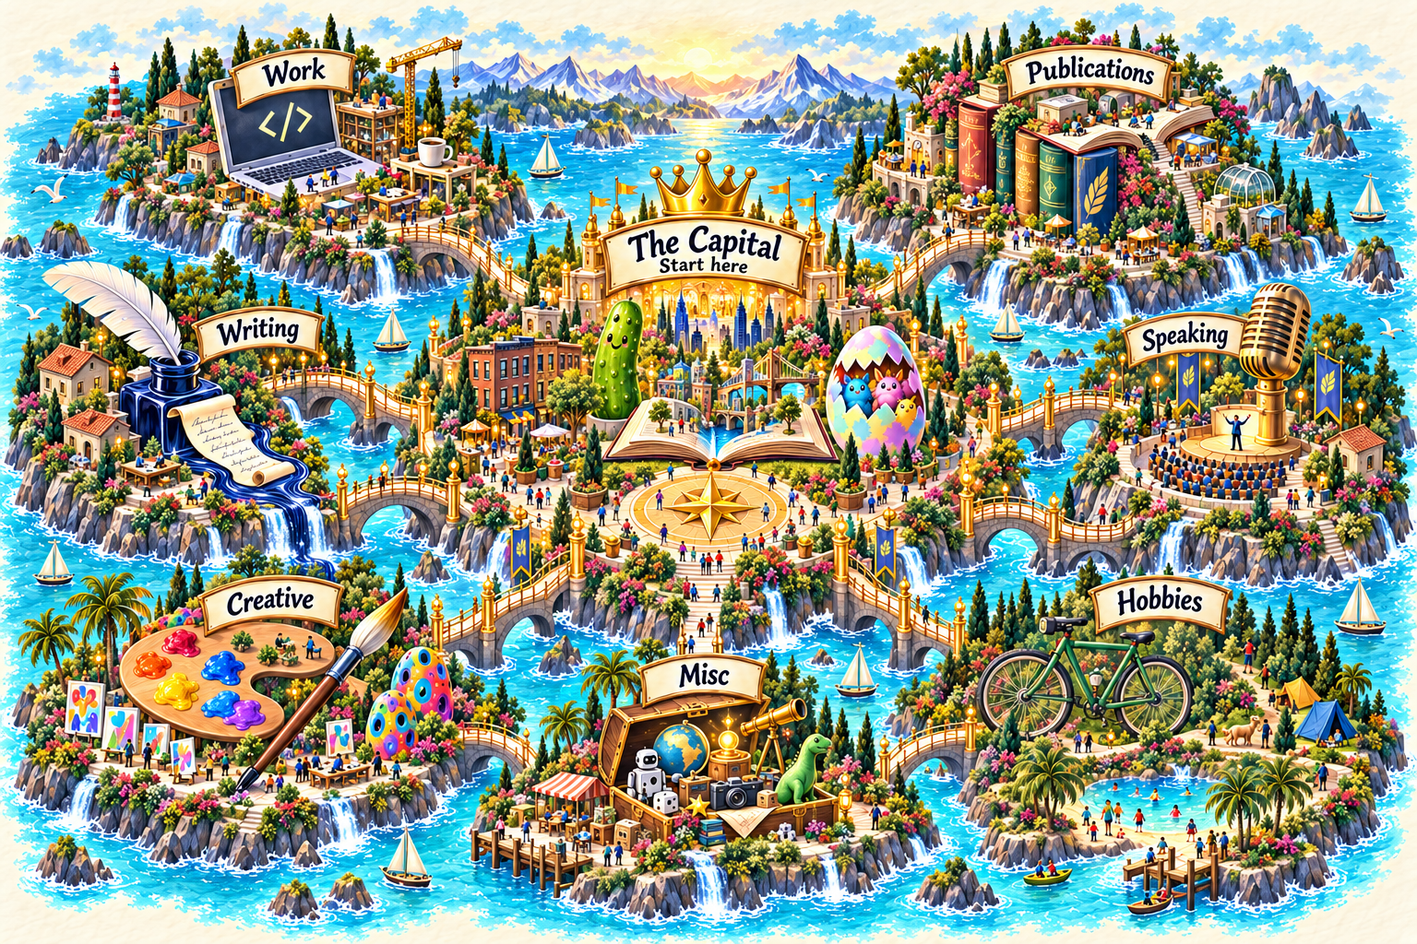
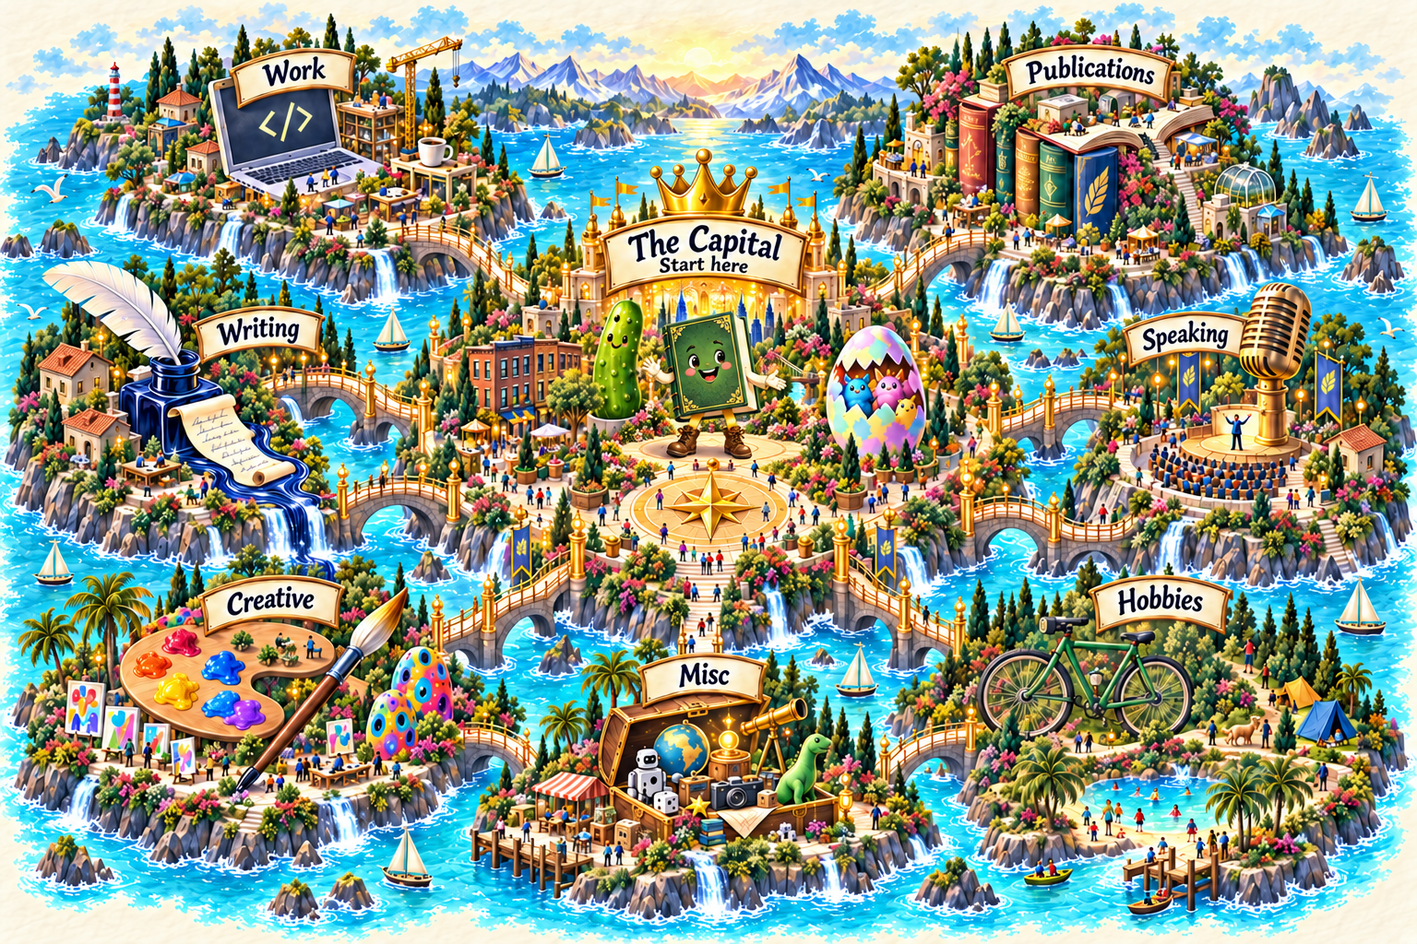
Bring book and Dota landmarks to life as characters

diff --git a/land/src/ProjectStory.jsx b/land/src/ProjectStory.jsx
@@ -70,7 +70,7 @@ export function ProjectStory({
           <img
             src={project.artwork}
             alt={
-              project.featured
+              project.featured || project.id === "dota-consciousness"
                 ? project.motif
                 : `The illustrated ${maps[project.kingdom].title} kingdom`
             }

diff --git a/land/src/ProjectStory.stories.jsx b/land/src/ProjectStory.stories.jsx
@@ -25,6 +25,10 @@ export const Interest = {
   args: { project: projectById.acroyoga, from: "hobbies" },
 };
 
+export const DotaMage = {
+  args: { project: projectById["dota-consciousness"], from: "writing" },
+};
+
 export const BookSecondChapter = {
   args: FrontendBook.args,
   play: async ({ canvasElement }) => {

diff --git a/land/docs/character-artwork-prompts.md b/land/docs/character-artwork-prompts.md
@@ -1,0 +1,71 @@
+# Character landmark artwork — 2026-10-03
+
+Built-in ImageGen precise object edits. Existing artwork was the edit target; the new book hero served as the identity reference for its map appearances. PNG source files are retained outside the production bundle, with WebP derivatives at quality 85.
+
+
+Tool: built-in image_gen edit
+Generated source: /Users/toli/.codex/generated_images/01a0fab3-b833-78f3-a58b-1de1c14f8a40/exec-081211bc-5c13-4f67-bc29-6e936d76159c.png
+Final source: /Users/toli/Documents/GitHub/toli-land/land/docs/artwork-source/projects/frontend-infra-book.png
+Final webp: /Users/toli/Documents/GitHub/toli-land/land/public/assets/projects/frontend-infra-book.webp
+
+Exact prompt:
+Use case: precise-object-edit. Edit the provided 1536x1024 landscape hero illustration. Image 1 is the EDIT TARGET. Keep the exquisite sunny gouache storybook painting style, lush Mediterranean island garden, sparkling turquoise sea, distant blue mountains, sailboats, golden afternoon light, and warm stone paths. Replace the entire enormous architectural open-book city in the center with ONE prominent anthropomorphic storybook character. Remove the towers, construction cranes, buildings, and city growing from the original book. The book itself is now a charming adventurous storyteller, absolutely recognizable at a small thumbnail size.
+Character identity: a sturdy upright sage-green closed or very slightly partly-open hardcover storybook BODY, angled a little in three-quarter view so its cream page edges show on one side. Refined gold embossed corner details and a fine gold border on the green cover, with no lettering. A prominent friendly FACE is on the FRONT COVER: two bright expressive dark eyes, little curved brows, warm rosy cheeks, and a joyful welcoming smile. Exactly TWO flexible cream paper arms with little paper hands emerge from the sides; one waves hello and the other extends in a storytelling gesture. Exactly TWO bookmark-ribbon legs emerge underneath the book, each ending in a warm brown walking boot. Little cream and gold page details emphasize that this is a living book. The green book cover remains the main silhouette; do not give it a human torso, human head, animal body, or generic robot body.
+Composition: the full character, both arms, both legs and boots visible, centered in the frame, occupying about 65-70 percent of the canvas height. Keep the character and limbs within the central 80 percent for phone crops. Stand it on a garden stone terrace amid delicate flowers, with the original sunny bay and island atmosphere behind. Its pose is friendly, lively, and adventurous. Rich painterly texture and crafted details consistent with the original illustration, not plastic CGI. Some small study-table or book details may remain at the margin, but the single green book character must be unquestionably the hero. No architectural city attached to the character.
+Invariants: preserve the original landscape aspect ratio at exactly 1536x1024, sunny rich gouache style, turquoise-water palette, luxuriant foliage, inviting mood. NO text, letters, words, labels, signs, app UI, page copy, buttons, cards, frames, logos, or watermarks. This is only an illustrative project hero asset.
+
+
+World map substitution
+Tool: built-in image_gen precise-object edit
+Generated source: /Users/toli/.codex/generated_images/01a0fab3-b833-78f3-a58b-1de1c14f8a40/exec-93906fbc-211e-4b28-9c6d-1397b7b833cf.png
+Final source: /Users/toli/Documents/GitHub/toli-land/land/docs/artwork-source/maps/world.png
+Final webp: /Users/toli/Documents/GitHub/toli-land/land/public/assets/maps/world.webp
+Exact prompt:
+Use case: precise-object-edit. Image 1 is the EDIT TARGET: the existing full Toli Land world map, 1536x1024. Image 2 is a CHARACTER IDENTITY REFERENCE ONLY: the new walking green storybook. Make ONE small localized substitution in Image 1. Replace ONLY the Capital's little open book with a city growing out of its pages, located in the center around x50%, y45%, BETWEEN the smiling green pickle on its left and the pastel Easter egg on its right, BELOW the sign reading 'The Capital / Start here'. Replace that open-book landmark with a MINIATURE version of the exact character from Image 2: upright sage/forest-green hardcover storybook body, cream page edges, refined gold corner embossing and gold border, friendly face on its front cover with bright dark eyes, rosy cheeks and joyful smile, two cream paper arms with paper hands, two gold bookmark-ribbon legs ending in brown lace-up boots. Both hands and both boots must be visible. The miniature character stands happily in that same central landmark location, facing the viewer at a slight three-quarter angle.
+LOCAL EDIT BOUNDARY: keep the complete miniature character within approximately x43–59% and y34–51% of the canvas; make it small enough to fit cleanly between the pickle and egg without covering either. Do not overlap or alter the Capital sign above or gold compass plaza below. Only remove the little open city-book object being replaced; reconstruct the tiny area immediately behind it as needed. Do not replace the whole capital or repaint other areas.
+STRICT INVARIANTS: preserve the entire rest of Image 1, all island outlines, water, sunlight, gouache texture, bridges, paths, foliage, crowds, camera, composition, proportions, and exact 1536x1024 landscape dimensions. Keep the Capital crown, Capital sign and 'Start here' text, smiling pickle, Easter egg and its creatures, nearby city architecture, and compass plaza intact. Preserve ALL SEVEN kingdoms and ALL their exact existing signs and landmarks: Work laptop; Publications giant books and architecture; Writing feather and ink; Speaking microphone; Creative paint palette; Hobbies bicycle; Misc treasure chest. IMPORTANT: the Publications kingdom at the TOP RIGHT must remain its existing generic giant-book architecture, NOT be replaced with the character, because that landmark represents the whole category. ONLY the small center Capital book is replaced. Preserve every existing word exactly: Work, Publications, Writing, Speaking, Creative, Hobbies, Misc, The Capital, Start here. Add no new labels, text, UI, captions, signs, or words. Match the scale, shadows and warm sunny storybook painting style so the new little character belongs to this world.
+
+
+Toli Land — Writing map Dota landmark edit
+
+Mode: built-in imagegen, precise-object-edit.
+Generated output: /Users/toli/.codex/generated_images/01a0faa1-7d3a-7493-be29-672c3f6ebd36/exec-033973b2-a6b2-4ba3-b67f-06e35fcc6fce.png
+Canonical source: /Users/toli/Documents/GitHub/toli-land/land/docs/artwork-source/maps/writing.png
+Serving derivative: /Users/toli/Documents/GitHub/toli-land/land/public/assets/maps/writing.webp
+Derivative command: cwebp -q 85 -m 6 docs/artwork-source/maps/writing.png -o public/assets/maps/writing.webp
+Original before edit preserved for QA: /tmp/toli-writing-before-invoker.png
+Official character page: https://www.dota2.com/hero/invoker
+Official reference image discovered from that page's og:image: https://cdn.steamstatic.com/apps/dota2/images/dota_react/heroes/social/invoker.jpg
+Local character reference: /tmp/toli-invoker-official-reference.jpg
+Dimensions: 1536x1024.
+Visual inspection: Invoker replaces the chessboard on the lower-right island, with pale hair, a tall purple/gold collar and robes, and three colored floating orbs. Existing six landmark labels and Story Grove entrance label remain legible. Other landmark positions, paths and overall composition remain visually consistent.
+No app source modifications, commits or deployment performed.
+
+EXACT PROMPT
+
+Use case: precise-object-edit.
+Asset type: exact localized edit of the supplied 1536x1024 Writing kingdom map.
+Input image 1 is the EDIT TARGET and must remain the same map.
+Input image 2 is an official Dota 2 Invoker CHARACTER LIKENESS REFERENCE ONLY. Do not copy its background, logo, typography, rendering style, or pose rigidly.
+
+CHANGE ONLY the LOWER-RIGHT DOTA LANDMARK: replace the cosmic chessboard and its chess pieces on the little island beneath the existing "DOTA & Consciousness" sign with a GIANT recognizable friendly storybook INVOKER from Dota 2. The editable area is centered about x83%, y68% of the canvas, maximum width29%, height33%; keep the same existing island, its connecting bridges, foreground cliff, plantings, surrounding water, and exact placement. Fit the new character beneath/behind the existing sign so the sign stays readable in its original position.
+
+Invoker must be an ACTUAL CHARACTER standing on that island, not character-shaped architecture and not a castle. Big clear full-body or nearly full-body silhouette, larger than surrounding tiny visitors, recognizable pale swept-back light hair, distinctive very tall purple/magenta-and-gold flared collar, purple robes with ivory-and-gold ornate shoulder armor and trim. Use the reference for his distinctive collar and costume silhouette. Make his expression friendly, curious and slightly proud, with a welcoming magical gesture. THREE floating spell orbs, one icy blue, one violet, one warm orange/gold, hover around his upper body/hands with small elegant luminous magic swirls. Adapt him completely to the existing sunny detailed gouache picturebook illustration; he belongs naturally in this cheerful coastal fantasy world. The old chessboard and chess pieces should be gone.
+
+STRICT INVARIANTS: preserve the whole rest of image 1 unchanged: exact camera, 1536x1024 dimensions, crop, all other five landmarks, all typography, all signs and their positions, book garden, quill, treehouses, kaleidoscope, repaired heart, hourglass, Story Grove entrance, bridges, water, mountains, boats, people, vegetation, colors, sunlight, composition and detail. Do not redraw, redesign, move, crop or add anything outside the lower-right Dota object replacement. Preserve the existing "DOTA & Consciousness" sign EXACTLY with that capitalization, ampersand and lettering. Preserve every other word EXACTLY. No new text or logos. No UI. No other changes.
+
+
+
+Built-in imagegen used. One call per map; map image as edit target and common character image as identity reference.
+
+Inspected outputs: both show the same upright green book character with gold corners, cream page arms, friendly face, golden ribbon legs and two brown boots. All signs and other destinations remain in place. Capital character body centered approximately (72%, 26%), full silhouette x64%-80%, y16%-38%; existing hotspot (73%,26%,34%,37%) still contains it. Publications character body centered approximately (50%,23%), full silhouette x42%-58%, y13%-34%; existing hotspot (50%,27%,39%,41%) still contains it. Publications character is slightly above nominal target center but does not require click-bound changes.
+
+Capital generated source: /Users/toli/.codex/generated_images/01a0faa8-a348-7a02-8cc6-19fe1d4b8205/exec-94f1bf4c-7e9e-45d2-940b-25ee6c6f74db.png
+Publications generated source: /Users/toli/.codex/generated_images/01a0faa8-a348-7a02-8cc6-19fe1d4b8205/exec-aa22b395-2ab3-42eb-9cd8-545644c05e22.png
+Canonical PNGs overwritten in /Users/toli/Documents/GitHub/toli-land/land/docs/artwork-source/maps/{capital,publications}.png. WebP assets encoded with cwebp -q 85 -m 6 to /Users/toli/Documents/GitHub/toli-land/land/public/assets/maps/{capital,publications}.webp.
+
+CAPITAL PROMPT
+Use case: precise-object-edit. Produce ONE 1536x1024 final production map illustration by editing image 1. Image 1 is the exact map edit target. Image 2 is the strict identity reference for the replacement Frontend Infra Book character. Make a tightly localized substitution only. Preserve the exact original map composition, geography, all other landmarks, people, vegetation, boats, water, bridges, palette, sunny vivid gouache rendering, camera angle, and all existing physical signs and their lettering. Do not recompose, crop, zoom or add any website UI. Character identity MUST match image 2: an upright forest-green hardback storybook with visible cream page edges, embossed gold ornamental corners and fine gold cover border, a large friendly smiling face with brown eyes and rosy cheeks on the green front cover, flexible cream paper-page arms and hands, golden ribbon legs, and two distinct brown lace-up boots. One hand visibly waves and the other opens in welcome. The full waving hand and BOTH boots must be clearly visible. The cover is the character's body. Do not put a city, buildings, scenery, windows, architecture or text on the book. Do not make an open book-shaped building. Keep the character clearly within the existing FE click region. In this Capital map, replace ONLY the enormous open pop-up city book beneath the existing 'Frontend Infra Book' sign in the upper right with the upright green storybook character. Target center is approximately x73%, y26%, with the full existing interaction region x56% to90%, y7.5% to44.5%. Keep the exact 'Frontend Infra Book' sign at its present position and readable; arrange the character under it with face near x74% y25% and both boots standing on the existing terrace around y37%. Scale the full character, waving hands and boots to fit naturally between the sign and terrace without obscuring the Easter Creatures landmark below. Preserve the small foreground reading desk and its tiny open book as background props if visible. Preserve PickleJS, NYC LeetCode Squad, Easter Creatures, the golden compass plaza, The Capital entrance, all five signs, and the surrounding Capital map exactly. Remove the FE miniature city and giant open pages completely, replacing that object with the one reference character. No duplicate character.
+
+PUBLICATIONS PROMPT
+Use case: precise-object-edit. Produce ONE 1536x1024 final production map illustration by editing image 1. Image 1 is the exact map edit target. Image 2 is the strict identity reference for the replacement Frontend Infra Book character. Make a tightly localized substitution only. Preserve the exact original map composition, geography, all other landmarks, people, vegetation, boats, water, bridges, palette, sunny vivid gouache rendering, camera angle, and all existing physical signs and their lettering. Do not recompose, crop, zoom or add any website UI. Character identity MUST match image 2: an upright forest-green hardback storybook with visible cream page edges, embossed gold ornamental corners and fine gold cover border, a large friendly smiling face with brown eyes and rosy cheeks on the green front cover, flexible cream paper-page arms and hands, golden ribbon legs, and two distinct brown lace-up boots. One hand visibly waves and the other opens in welcome. The full waving hand and BOTH boots must be clearly visible. The cover is the character's body. Do not put a city, buildings, scenery, windows, architecture or text on the book. Do not make an open book-shaped building. Keep the character clearly within the existing FE click region. In this Publications map, replace ONLY the enormous open pop-up city book beneath the existing 'Frontend Infra Book' sign in the upper center with the upright green storybook character. Target center is approximately x50%, y27%, with the full existing interaction region x30.5% to69.5%, y6.5% to47.5%. Keep the exact crowned 'Frontend Infra Book' sign at its present position and readable; arrange the character under it with face near x50% y25% and both boots standing on the existing island terrace around y40%. Its waving hand and other open hand fit comfortably inside the region, with the sign fully unobstructed. Retain connecting paths and the access bridge into this island, adapting only the immediate ground formerly under the giant open pages into a small stone standing terrace. Preserve FB Ads Book at left, API Scraping at right, Neurodiverse Guide to the Workplace at lower center, The Great Library entrance, all five signs and their exact lettering, boats, islands and all surrounding geography exactly. Remove the FE miniature city and giant open pages completely, replacing that object with the one reference character. Do not alter the separate open-book landmark for Neurodiverse Guide. No duplicate character.

diff --git a/land/design-qa.md b/land/design-qa.md
@@ -75,3 +75,34 @@ Published https://beta.toli.me on Netlify project `toli-land-beta` (`bc4a1b57-c9
 - Live browser evidence: `docs/qa/live-beta-book.jpg`, 1280 × 720 desktop, initial book chapter, light theme.
 
 Deployment configuration commit: `3f5b366`. Original application commit: `bf60669`.
+
+
+## Character landmark refinement — 2026-10-03
+
+final result: passed
+
+The latest user direction replaces architectural interpretations with actual symbols and characters: a storybook with arms and legs for Frontend Infra Book and a Dota magician for DOTA & Consciousness. Invoker is the assumed Dota hero; the optional hero clarification received no answer before generation.
+
+### Source and matched evidence
+
+- New source visual truth: `docs/artwork-source/projects/frontend-infra-book.png` and `docs/artwork-source/maps/{world,capital,publications,writing}.png`, each 1536 × 1024. Built-in ImageGen performed five precise object edits. Exact prompts and provenance: `docs/character-artwork-prompts.md`.
+- Before screenshots use the previous release on `https://beta.toli.me`; after screenshots use the tested production build at `http://127.0.0.1:4174`. Both have light theme, scroll 0, initial map or initial story chapter, and the same viewport. Desktop is 1280 × 720 CSS/screenshot pixels; mobile is 390 × 844 CSS/screenshot pixels, one screenshot pixel per CSS pixel.
+- `docs/qa/symbols-map-comparison.jpg`: world, Capital, Publications, before left / after right. Each desktop frame is proportionally reduced to 768 × 432 for the contact sheet. Original captures retain 1280 × 720 dimensions.
+- `docs/qa/symbols-story-comparison.jpg`: book story, Dota story, Writing map, same before/after setup.
+- `docs/qa/symbols-mobile-comparison.jpg`: full-resolution book before/after and Dota before/after, each 390 × 844.
+- Focused source/implementation pairs: `docs/qa/symbols-book-source-comparison.jpg` and `symbols-dota-source-comparison.jpg`, source left / rendered right, each panel 390 × 355. The book source is scaled to 355px high and center-cropped to 390px. The writing source is scaled to 1331px wide and cropped at (910,426), matching the actual landmark crop. The browser artwork region starts at y65. The live location button is an intentional UI overlay. These pairs were inspected together, as were the full-screen comparisons.
+- `docs/qa/symbols-publications-mobile-focused.jpg` verifies that “Find it in The Great Library” focuses the walking book on a phone, showing its face, both hands, and both boots.
+
+### Findings and verification
+
+No actionable P0/P1/P2 findings. This refinement passed its first rendered comparison; no layout or crop corrections were required.
+
+- **Fonts/typography:** Cormorant Garamond and Nunito Sans hierarchy, line wrapping, and readable buttons match the preceding release in the matched pairs. Raster map labels remain intact and readable.
+- **Spacing/layout:** Map geography, UI proportions, text rhythm, and project page layout remain consistent. Characters fit the existing hit regions. The phone book crop includes all limbs and the primary link; the Dota crop includes the robe, face, three orbs, and primary link. Both phone project pages report 390px document width at a 390px viewport and scroll 0.
+- **Colors/tokens:** The green-and-gold book and purple/gold mage fit the existing sunny sea-and-garden palette. Paper, forest ink, and accessible gold UI tokens are unchanged.
+- **Image quality/fidelity:** Same book identity appears in four illustrations. Dota uses the official Invoker visual reference, adapted to the existing picturebook style. Optimized WebP assets retain the silhouettes and details. The phone source comparisons show the actual generated art, with expected raster filtering/compression and no placeholder substitutions.
+- **Copy/content:** Source-grounded project summaries and destinations remain unchanged. Updated book and Dota image descriptions match the new artwork. Added a DotaMage Storybook example; existing FrontendBook and map examples use the refreshed art.
+- **Interactions:** Verified world → Capital → book, next chapter → “Plan the system,” Writing map → Dota, and phone book → focused Publications map. Browser console errors: none.
+- **Checks:** `npm run build` passed; `npm test` passed 16/16; `npm run build-storybook` passed with 15 stories including DotaMage. The pre-existing Storybook Node deprecation and development-bundle size notices remain nonblocking.
+
+Real-device multitouch and Safari/Firefox were not rerun for this artwork-only refinement. No gesture or routing code changed. Original generation sources and matched before/after screenshots are retained in the repository.

diff --git a/land/docs/creative-direction.md b/land/docs/creative-direction.md
@@ -9,17 +9,20 @@ The capital gathers a few featured projects around a golden compass plaza. Golde
 ## Literal landmarks with a second idea
 
 - PickleJS: a giant bumpy pickle with a tiny workshop door. Inside its story, testing is explained as checking the bridges between parts of an application.
-- Frontend Infra Book: a giant open storybook whose pages unfold into a little city. A ribbon bookmark becomes a footbridge. Its project page has short chapters rather than a wall of text.
+- Frontend Infra Book: a friendly walking storybook with a green cover, smiling face, gold corners, paper arms, ribbon legs, and brown boots. The same character appears in the world, Capital, Publications, and detail artwork. Its project page has short chapters rather than a wall of text.
 - NYC LeetCode Squad: a New York neighborhood wrapped in enormous code brackets, with people gathered around a communal table.
 - Easter Creatures: a pastel egg cracked open into a habitat for curious creatures.
 - API Scraping: a watermill and sieve gathering readable scrolls from a stream.
 - Speaking: a microphone amphitheater and small stages for individual conversations.
 - Writing: a quill, inkwell river, and distinct little story places.
+- DOTA & Consciousness: a purple-and-gold Dota mage with three floating spell orbs, replacing the chessboard. Invoker is the assumed hero for this pass; the user asked for the Dota magician without naming a hero.
 - Creative: studios growing out of a painter's palette, an egg habitat, and a steaming spa garden.
 - Hobbies: a connected adventure landscape with literal bikes, trails, water, a dog, and movement gardens.
 - Misc: a treasure chest of small curiosities, with a deliberately separate path to mature material from the existing site.
 
 ## How it moves
+
+The latest art direction favors objects and characters with strong silhouettes. Architecture establishes each kingdom, while the individual items embody their subjects. Character faces, hands, and feet should remain visible at ordinary map zoom and in phone detail crops.
 
 Drag to explore, pinch or use controls to zoom, and tap a landmark to enter. Keyboard users can tab through landmarks and use map controls. A compact atlas provides direct travel and searchable access to every item. Returning restores the previous map view. Reduced-motion preferences remove camera flights and decorative movement.
 

diff --git a/land/AGENTS.md b/land/AGENTS.md
@@ -13,7 +13,8 @@ Build app UI in `src/`. Keep `.openai/hosting.json`, `worker/index.js`, `scripts
 - Build a responsive website, not a framed mobile app.
 - The world and all seven kingdoms are fully illustrated, zoomable maps.
 - The capital is a visually prominent curated introduction; featured projects also belong to their category kingdoms.
-- Literal landmarks express their subjects: a giant pickle for PickleJS, a pop-up storybook for Frontend Infra Book, and a cracked egg full of creatures for Easter Creatures.
+- Landmarks are recognizable symbols and characters, not primarily buildings shaped like their subjects: a giant pickle for PickleJS, a walking storybook with arms and legs for Frontend Infra Book, a Dota mage for the Dota essay, and a cracked egg full of creatures for Easter Creatures.
+- Keep each character's identity consistent across the world, Capital, category map, and detail page. The FE book has a green cover, smiling face, gold corners, paper arms, ribbon legs, and brown boots. Its silhouette must remain readable when zoomed out and in phone crops.
 - Selecting a landmark opens an illustrated page explaining the project with real links and a reliable return to the originating map.
 - Preserve the selected sunny gouache atlas style. Use generated raster artwork and actual icon-library icons, never CSS/SVG substitutes for illustration.
 - Keep unknown descriptions modest and factual. The selected featured projects are editorial defaults, configurable in content data.
